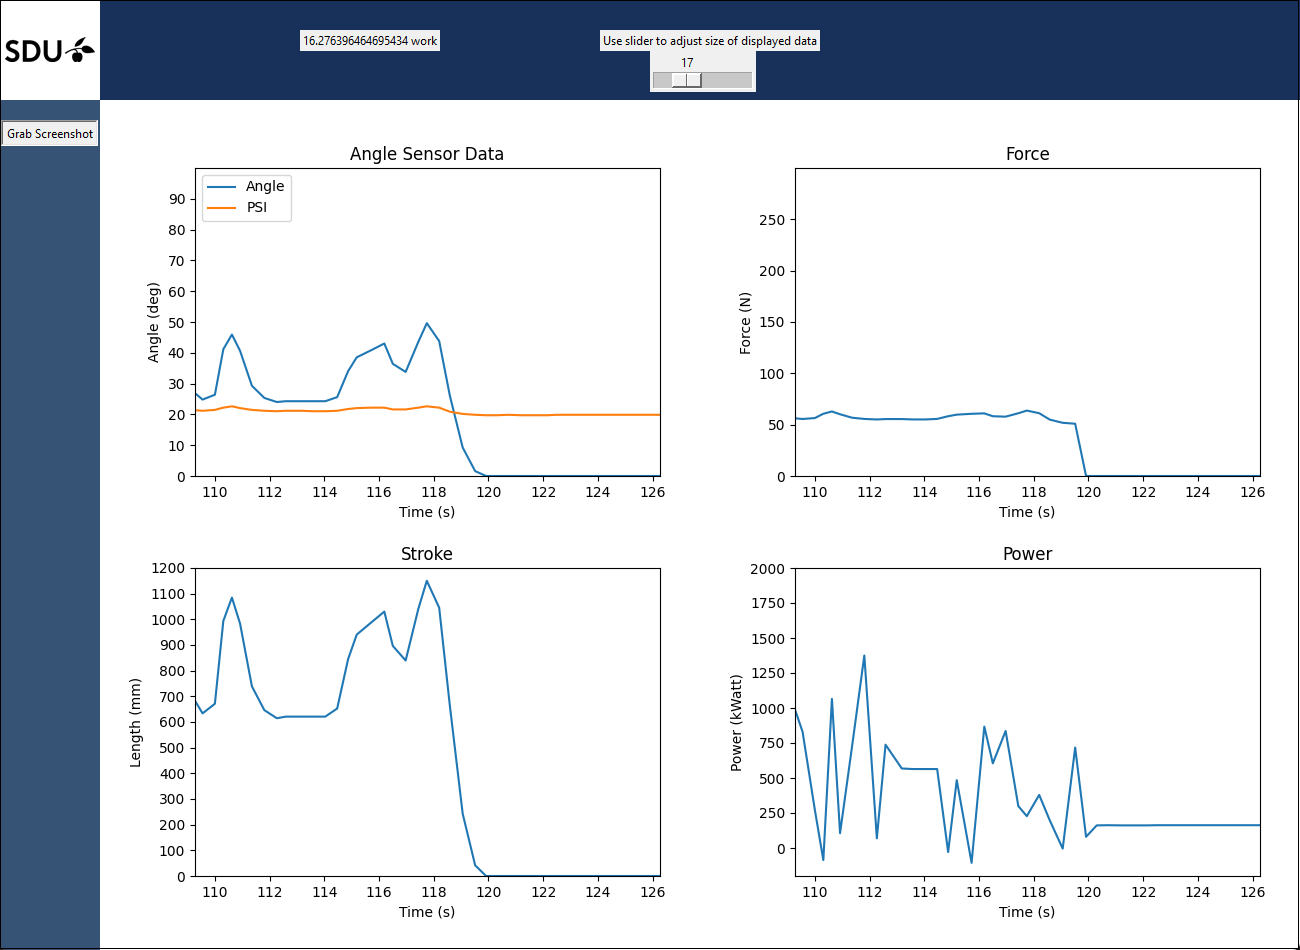
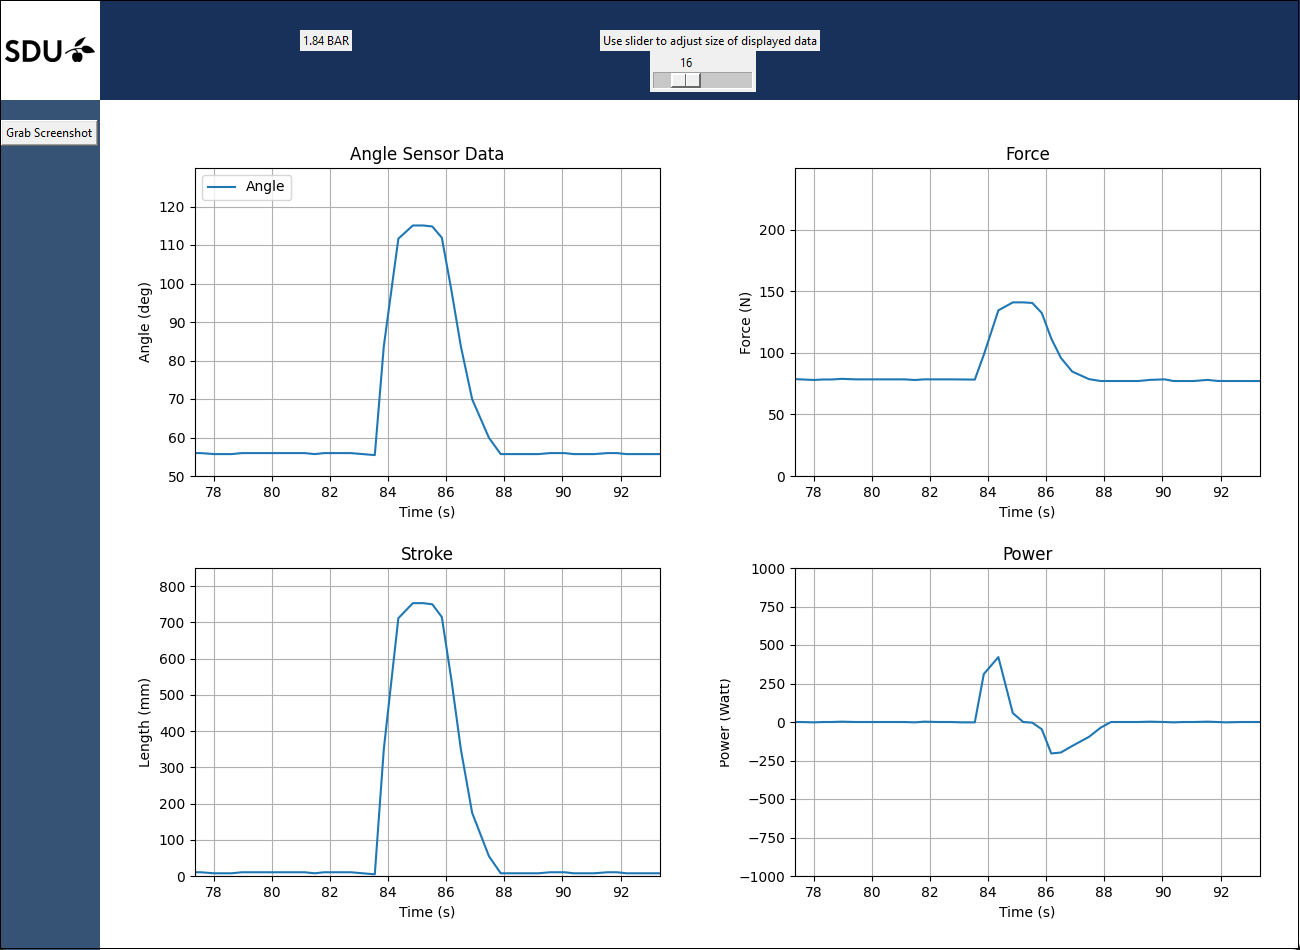
Fix gui values

diff --git a/gui.py b/gui.py
@@ -72,13 +72,14 @@ canvas_logo.place(x=0,y=37)
 fig_ang_sens = Figure(figsize=(6, 4), dpi=100)
 ax_ang_sens = fig_ang_sens.add_subplot(111)
 line_ang_sens, = ax_ang_sens.plot([], [], label='Angle')
-line_pres_sens, = ax_ang_sens.plot([], [], label='PSI')
+#line_pres_sens, = ax_ang_sens.plot([], [], label='PSI')
 ax_ang_sens.set_xlabel('Time (s)')
 ax_ang_sens.set_ylabel('Angle (deg)')
 ax_ang_sens.set_title('Angle Sensor Data')
-ax_ang_sens.set_yticks([10 * 1 * i for i in range(10)])
-y_min = 0
-y_max = 100
+ax_ang_sens.set_yticks([10 * 1 * i for i in range(5, 13, 1)])
+ax_ang_sens.grid(True)
+y_min = 50
+y_max = 130
 ax_ang_sens.set_ylim(y_min, y_max)
 ax_ang_sens.legend(loc='upper left')
 
@@ -94,9 +95,10 @@ line_force, = ax_force.plot([], [])
 ax_force.set_xlabel('Time (s)')
 ax_force.set_ylabel('Force (N)')
 ax_force.set_title('Force')
-ax_force.set_yticks([50 * 1 * i for i in range(6)])
+ax_force.grid(True)
+ax_force.set_yticks([50 * 1 * i for i in range(5)])
 y_min = 0
-y_max = 300
+y_max = 250
 ax_force.set_ylim(y_min, y_max)
 
 # Create a canvas to display the Matplotlib figure
@@ -111,9 +113,10 @@ line_stroke, = ax_stroke.plot([], [])
 ax_stroke.set_xlabel('Time (s)')
 ax_stroke.set_ylabel('Length (mm)')
 ax_stroke.set_title('Stroke')
-ax_stroke.set_yticks([0, 100, 200, 300, 400, 500, 600, 700, 800, 900 ,1000, 1100, 1200])
+ax_stroke.grid(True)
+ax_stroke.set_yticks([100 * 1 * i for i in range(9)])
 y_min = 0
-y_max = 1200
+y_max = 850
 ax_stroke.set_ylim(y_min, y_max)
 
 # Create a canvas to display the Matplotlib figure
@@ -126,11 +129,12 @@ fig_power = Figure(figsize=(6, 4), dpi=100)
 ax_power = fig_power.add_subplot(111)
 line_power, = ax_power.plot([], [])
 ax_power.set_xlabel('Time (s)')
-ax_power.set_ylabel('Power (kWatt)')
+ax_power.set_ylabel('Power (Watt)')
 ax_power.set_title('Power')
+ax_power.grid(True)
 #ax_power.set_yticks([0, 50, 100, 150, 200, 250, 300])
-y_min = -200
-y_max = 2000
+y_min = -1000
+y_max = 1000
 ax_power.set_ylim(y_min, y_max)
 
 # Create a canvas to display the Matplotlib figure
@@ -146,15 +150,19 @@ if BOOL_ENCODER:
 y_values_power = []
 y_values_force = []
 work = 0
+pressure = 0
+length_rod = 755 #mm
+start_ang = 55 #deg
+start_stroke = length_rod * math.cos(math.radians(start_ang))
 
 # Read data from CSV file
 def read_data():
-    global y_values_force, y_values_power, work
+    global y_values_force, y_values_power, work, pressure, length_rod, start_stroke
     if BOOL_ENCODER:
         data:list = encoder.get_data()
         if len(data) == 0:
             return
-
+        #data[0]["A0"] = 6.0
         DATA.append(data[0])
         
         x_values = [float(row["Time"]) for row in DATA]
@@ -162,14 +170,14 @@ def read_data():
         y_values_sensor_pressure = [float(row["A0"]) for row in DATA]
         line_ang_sens.set_xdata(x_values)
         line_ang_sens.set_ydata(y_values_sensor_ang)
-        line_pres_sens.set_xdata(x_values)
+        #line_pres_sens.set_xdata(x_values)
         # Convert bar to psi
-        line_pres_sens.set_ydata([14.5038 * float(row["A0"]) for row in DATA])
+        pressure = y_values_sensor_pressure[-1]
+        #line_pres_sens.set_ydata([14.5038 * float(row["A0"]) for row in DATA])
         
 
         ##### Stroke data #####
-        length_rod = 755 # mm
-        y_values_stroke = [2*length_rod * math.sin(math.radians(ang)) for ang in y_values_sensor_ang]
+        y_values_stroke = [(length_rod * math.cos(math.radians(ang)) * -1) + start_stroke for ang in y_values_sensor_ang]
         line_stroke.set_xdata(x_values)
         line_stroke.set_ydata(y_values_stroke)
 
@@ -190,6 +198,7 @@ def read_data():
             power = 0
         if math.isnan(work):
             work = 0
+
         y_values_power.append(power)
         line_power.set_xdata(x_values)
         line_power.set_ydata(y_values_power)
@@ -275,12 +284,13 @@ def export_ui():
     print("UI screenshot saved.")
 
 def update_power_label():
-    global work    
+    global work, pressure 
     # Update the label text
-    label_work.config(text=f'{str(work)} work')
+    #label_work.config(text=f'{str(work)} work')
+    label_work.config(text=f'{pressure} BAR')
     
     # Schedule the next update
-    root.after(1000, update_power_label)
+    root.after(UPDATE_INTERVAL, update_power_label)
 
 # Create a button widget
 button = tk.Button(master=root, text="Grab Screenshot", command=export_ui)

diff --git a/test.py b/test.py
@@ -1,35 +1,14 @@
 import numpy as np
 import matplotlib.pyplot as plt
 import Force_calc
+import math
 
-# Generate x values from 0 to 1000 with 0.1 steps
-x = np.arange(0, 1000, 1)
+length_rod = 755 # mm
+ang = 55
+start = length_rod * math.cos(math.radians(ang))
+y_values_stroke = length_rod * math.cos(math.radians(ang)) * -1
+print(y_values_stroke + start)
 
-# Calculate y values using a mathematical formula
-n_cycles = 5
-y = abs(90 * np.sin(np.deg2rad(x/(1000/n_cycles)*90)))
-
-pressure = 100
-#force = pressure * np.abs(np.gradient(y))
-
-force_arr = np.zeros(len(y))
-power_arr = np.zeros(len(y))
-# A forloop to calculate the force and power values for each y value
-for i in range(len(y)):
-    force = Force_calc.calculate_force(y[i], pressure, True)
-    force_arr[i] = force
-    power = Force_calc.calc_power(y[i], y[i-1], 0.001, pressure, True)
-    power_arr[i] = power
-
-data = np.vstack((x, y, force, power)).T
-
-np.savetxt('curve_data2.csv', data, delimiter=',', comments='', fmt='%.1f, %.6f, %.1f, %.1f')
-
-# Plot the curve
-plt.plot(x, y, label='Y Value')
-plt.plot(x, force, label='Force Value')
-plt.xlabel('X Value')
-plt.ylabel('Y/Force Value')
-plt.title('Continuous Curve and Force Value with X Ranging from 0 to 1000')
-plt.grid(True)
-plt.show()
+ang = 115
+y_values_stroke = length_rod * math.cos(math.radians(ang)) * -1
+print(y_values_stroke + start )

diff --git a/Force_calc.py b/Force_calc.py
@@ -80,16 +80,15 @@ def calc_power(theta, theta_prev, time, pressure, bBar):
         float: work in [Joules]
         float: power in [Watts]
     """
-
     power = 0.0
     work = 0.0
     theta2 = np.pi - np.deg2rad(theta)
     x = np.sqrt(L2**2 + L4**2 - 2*L2*L4*np.cos(theta2))
-
-    theta2_prev = 180 - theta_prev
+    
+    theta2_prev = np.pi - np.deg2rad(theta_prev)
     x_prev = np.sqrt(L2**2 + L4**2 - 2*L2*L4*np.cos(theta2_prev))
 
-    delta_x = x - x_prev
+    delta_x = x_prev - x
     f_p = calculate_piston_force(pressure, bBar)
     
     work = f_p * delta_x
